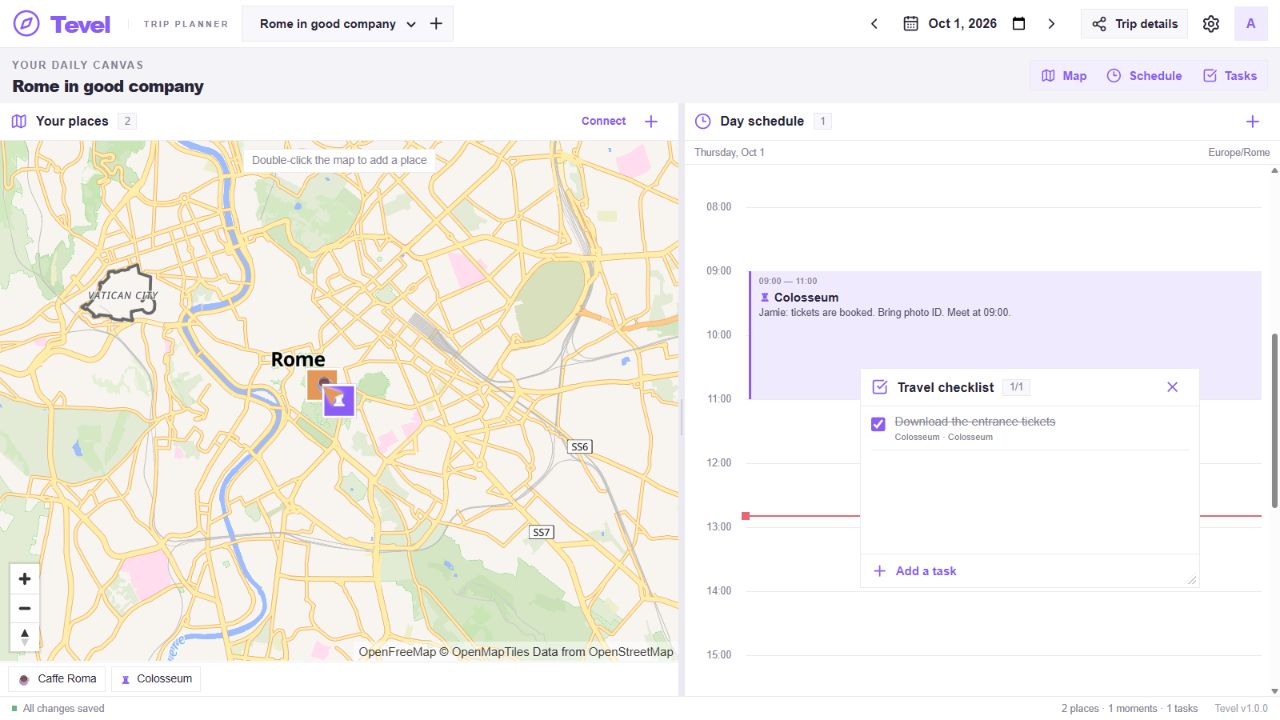
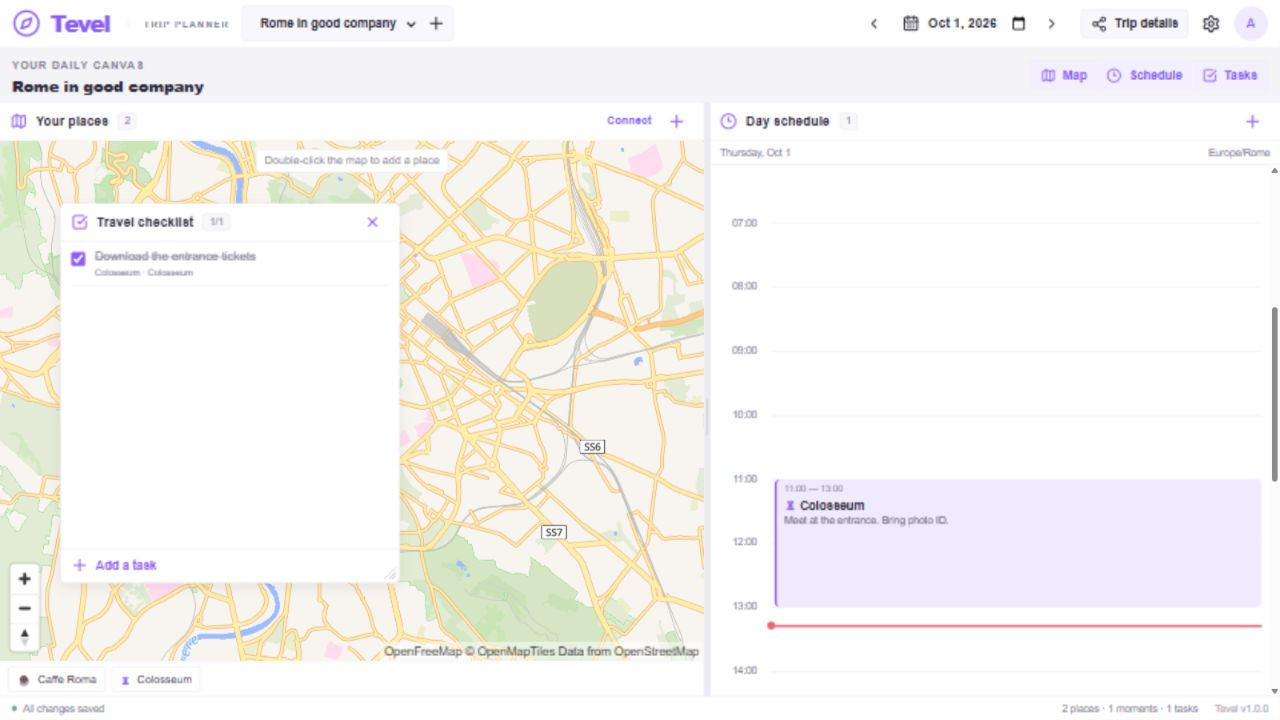
Refine compact UI with subtle rounding and map pin shapes

diff --git a/src/style.css b/src/style.css
@@ -105,7 +105,7 @@ textarea {
   align-items: center;
   background: var(--subtle);
   border: 1px solid var(--line);
-  border-radius: 0;
+  border-radius: 5px;
   padding-left: 8px;
 }
 .trip-selector select {
@@ -122,7 +122,7 @@ textarea {
   justify-content: center;
   width: 34px;
   height: 34px;
-  border-radius: 0;
+  border-radius: 5px;
 }
 .icon:hover {
   background: var(--subtle);
@@ -164,7 +164,7 @@ textarea {
   align-items: center;
   justify-content: center;
   gap: 8px;
-  border-radius: 0;
+  border-radius: 5px;
   padding: 7px 10px;
   font-size: 13px;
   font-weight: 600;
@@ -186,7 +186,7 @@ textarea {
   font-size: 12px;
 }
 .avatar {
-  border-radius: 0;
+  border-radius: 50%;
   height: 34px;
   width: 34px;
   background: color-mix(in srgb, var(--accent) 13%, var(--surface));
@@ -226,10 +226,11 @@ textarea {
 .view-controls {
   display: flex;
   border: 1px solid var(--line);
-  border-radius: 0;
+  border-radius: 5px;
   background: var(--surface);
   padding: 0;
   gap: 0;
+  overflow: hidden;
 }
 .view-controls button {
   display: flex;
@@ -296,7 +297,7 @@ textarea {
   background: var(--subtle);
   border: 1px solid var(--line);
   padding: 2px 6px;
-  border-radius: 0;
+  border-radius: 4px;
   color: var(--muted);
 }
 .map-wrapper {
@@ -316,7 +317,7 @@ textarea {
   background: var(--surface);
   box-shadow: none;
   border: 1px solid var(--line);
-  border-radius: 0;
+  border-radius: 5px;
   padding: 5px 8px;
   white-space: nowrap;
   font-size: 11px;
@@ -326,9 +327,9 @@ textarea {
 .map-pin {
   width: 34px;
   height: 34px;
-  border-radius: 0;
+  border-radius: 50% 50% 50% 5px;
   border: 3px solid white;
-  box-shadow: none;
+  box-shadow: 0 2px 5px #26223235;
   color: white;
   font-size: 17px;
 }
@@ -354,7 +355,7 @@ textarea {
   align-items: center;
   gap: 6px;
   border: 1px solid var(--line);
-  border-radius: 0;
+  border-radius: 4px;
   white-space: nowrap;
   padding: 5px 8px;
   font-size: 11px;
@@ -424,7 +425,7 @@ textarea {
   right: 0;
   text-align: left;
   padding: 5px 8px;
-  border-radius: 0;
+  border-radius: 6px;
   border-left: 3px solid var(--accent);
   overflow: hidden;
   display: flex;
@@ -457,7 +458,7 @@ textarea {
   position: absolute;
   left: -3px;
   top: -3px;
-  border-radius: 0;
+  border-radius: 50%;
   width: 8px;
   height: 8px;
   background: #e86673;
@@ -467,9 +468,11 @@ textarea {
   z-index: 5;
   display: flex;
   flex-direction: column;
-  box-shadow: none;
+  box-shadow: 0 3px 12px #24203a16;
 
   border: 1px solid var(--line);
+
+  border-radius: 6px;
 }
 .todo-drag {
   cursor: move;
@@ -599,7 +602,7 @@ textarea {
 .status-bar i {
   width: 5px;
   height: 5px;
-  border-radius: 0;
+  border-radius: 50%;
 }
 .saved {
   background: #70ad8d;
@@ -620,7 +623,7 @@ textarea {
   background: var(--surface);
   box-shadow: none;
   border: 1px solid var(--line);
-  border-radius: 0;
+  border-radius: 6px;
   text-align: center;
   max-width: 430px;
   width: 90%;
@@ -651,8 +654,8 @@ textarea {
 .modal {
   background: var(--surface);
   border: 1px solid var(--line);
-  border-radius: 0;
-  box-shadow: none;
+  border-radius: 8px;
+  box-shadow: 0 8px 24px #18102524;
   width: 460px;
   max-width: 100%;
   max-height: 90dvh;
@@ -696,7 +699,7 @@ textarea {
 .field textarea {
   width: 100%;
   border: 1px solid var(--line);
-  border-radius: 0;
+  border-radius: 5px;
   background: var(--subtle);
   padding: 7px 9px;
   outline: none;
@@ -780,7 +783,7 @@ textarea {
   min-width: 0;
   flex: 1;
   border: 1px solid var(--line);
-  border-radius: 0;
+  border-radius: 5px;
   background: var(--subtle);
   padding: 8px;
   font-size: 11px;
@@ -827,7 +830,7 @@ textarea {
   color: var(--surface);
   font-size: 12px;
   line-height: 1.5;
-  border-radius: 0;
+  border-radius: 6px;
   padding: 12px 15px;
   z-index: 80;
   display: flex;
@@ -860,7 +863,7 @@ textarea {
   width: 320px;
   border: 1px solid var(--line);
   background: var(--surface);
-  border-radius: 0;
+  border-radius: 6px;
   padding: 10px;
   z-index: 20;
   box-shadow: none;
@@ -885,7 +888,7 @@ textarea {
 }
 .calendar-grid button {
   height: 37px;
-  border-radius: 0;
+  border-radius: 4px;
   font-size: 11px;
 }
 .calendar-grid button:hover {
@@ -1038,7 +1041,7 @@ textarea {
   height: 24px;
   padding: 2px;
   background: #fff;
-  border-radius: 0;
+  border-radius: 3px;
   object-fit: contain;
 }
 .divider {
@@ -1080,7 +1083,7 @@ textarea {
   padding: 20px;
   background: var(--subtle);
   border: 1px solid var(--line);
-  border-radius: 0;
+  border-radius: 6px;
   margin-top: 15px;
 }
 .setup-message h3 {
@@ -1301,7 +1304,7 @@ textarea {
 .maplibregl-ctrl-group,
 .maplibregl-ctrl-group button,
 .maplibregl-popup-content {
-  border-radius: 0;
+  border-radius: 4px;
   box-shadow: none;
 }
 

diff --git a/docs/verification.md b/docs/verification.md
@@ -48,4 +48,4 @@ After the rename, 36 tests passed: 13 emulator integration/rules/HTTP tests, 18 
 
 ## Compact interface verification
 
-The deployed interface uses square controls and panels, flat borders, and no ornamental orbit artwork or card shadows. The desktop top bar is 48px and panel headings are 38px; workspace margins are zero. Native map, schedule, checklist, calendar and settings interactions were checked. Mobile width is 390px with no horizontal overflow. Production gallery captures reflect this compact interface.
+The deployed interface keeps edge-to-edge workspace panels and compact spacing, with gently rounded controls, teardrop map pins and 6px schedule blocks. Floating dialogs and checklists have restrained shadows; ornamental orbit artwork remains removed. The desktop top bar is 48px and panel headings are 38px; workspace margins are zero. Native map, schedule, checklist, calendar and settings interactions were checked. Mobile width is 390px with no horizontal overflow. Production gallery captures reflect this compact interface.
